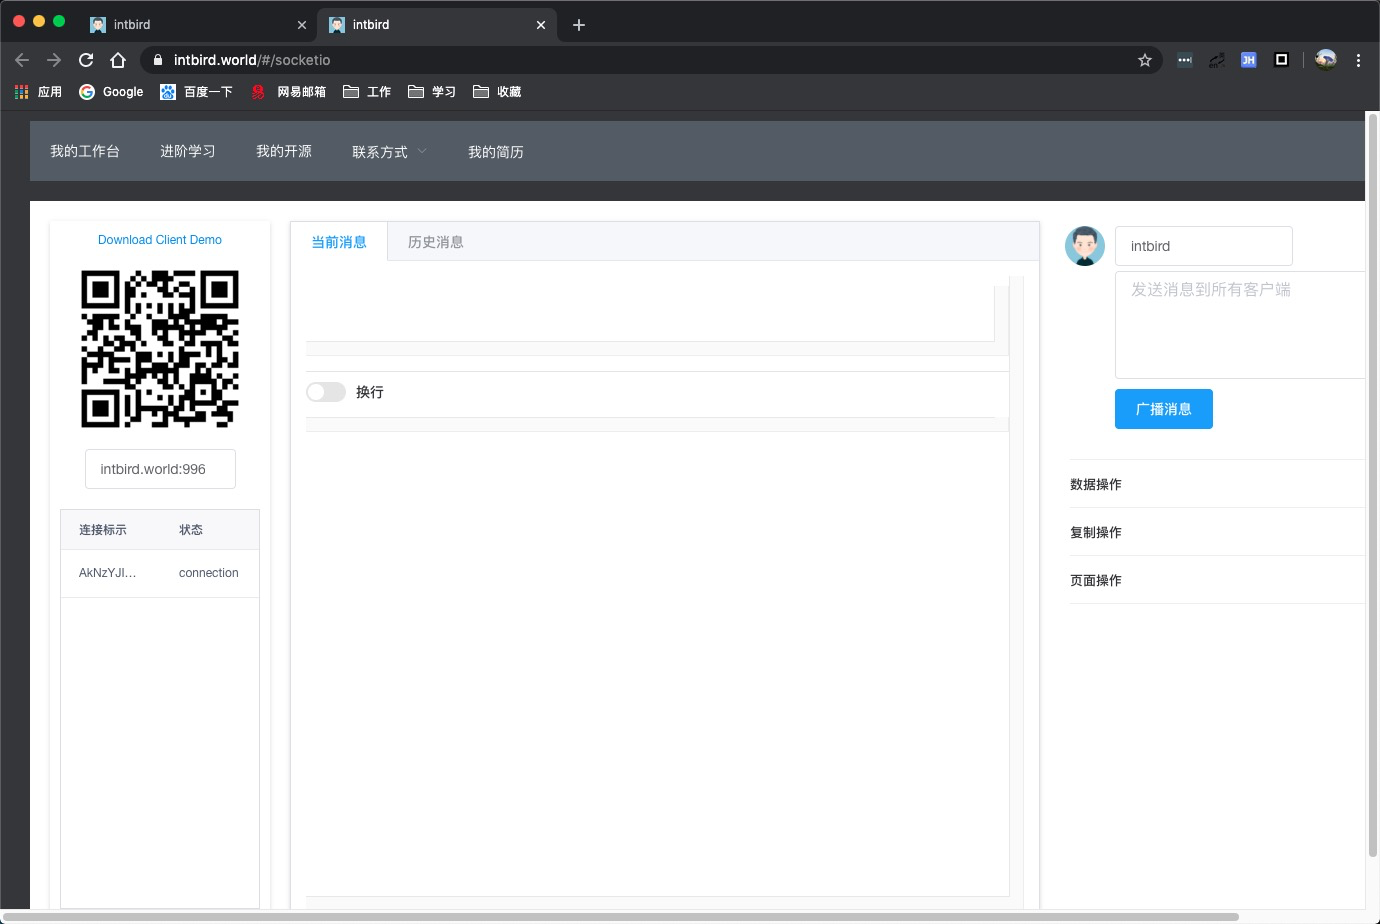
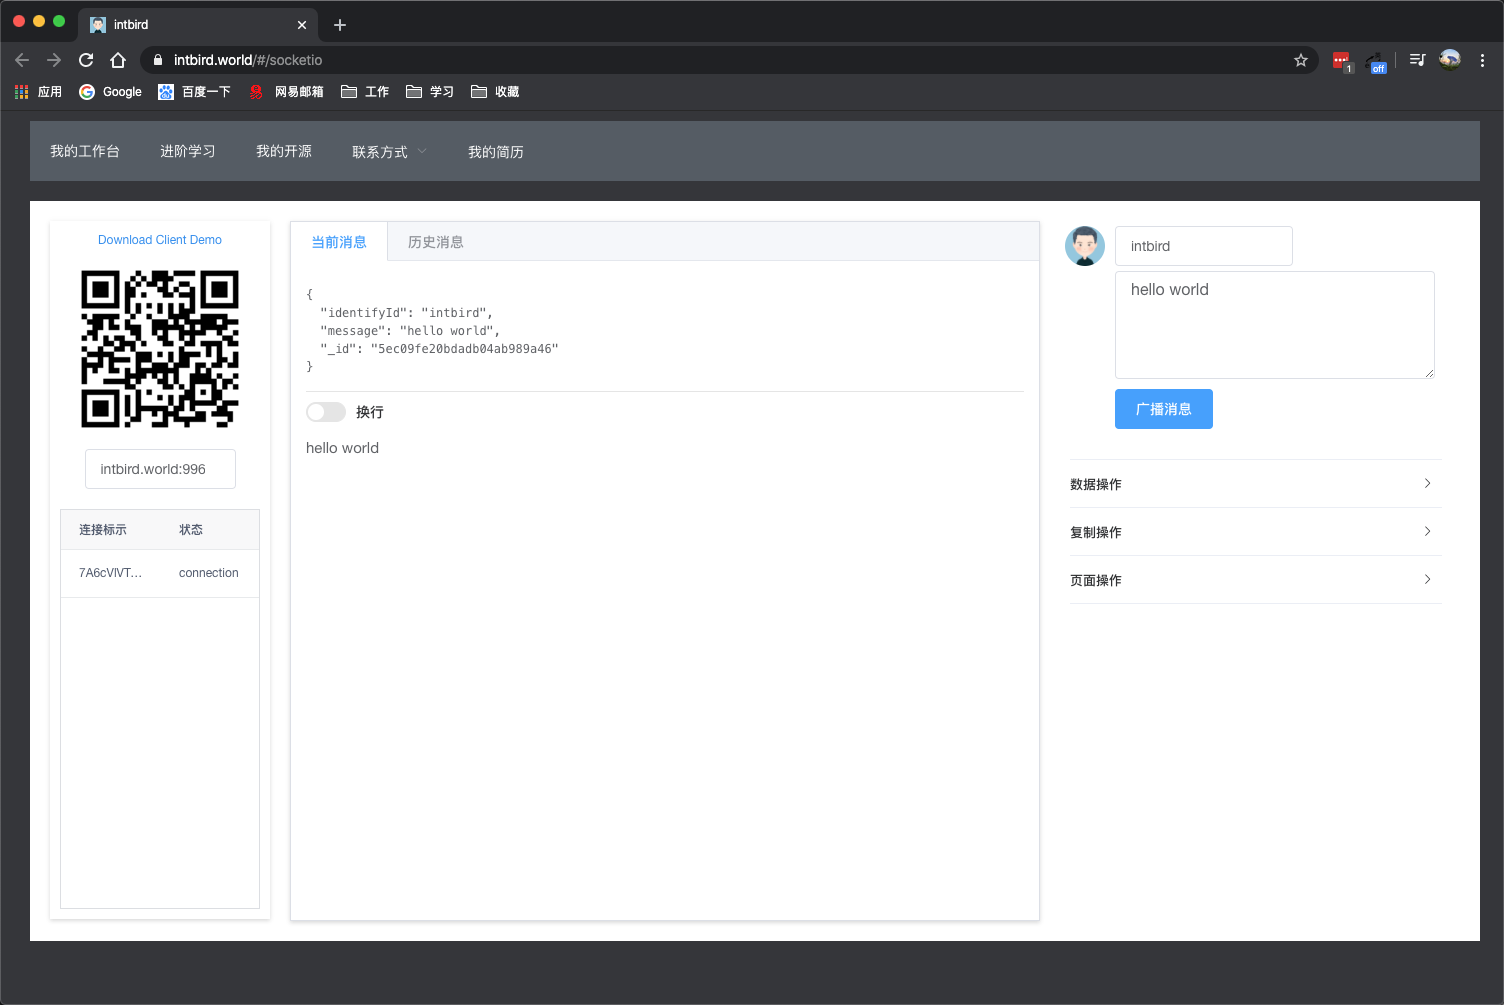
[MDF]默认端口号:996

diff --git a/src/components/socket/IpQrCode.vue b/src/components/socket/IpQrCode.vue
@@ -73,7 +73,7 @@
       },
       querySearch(queryString, cb) {
         const result = [
-          {"value": "intbird.world"},
+          {"value": "intbird.world:996"},
         ];
         cb(result);
         this.showQRCode();
